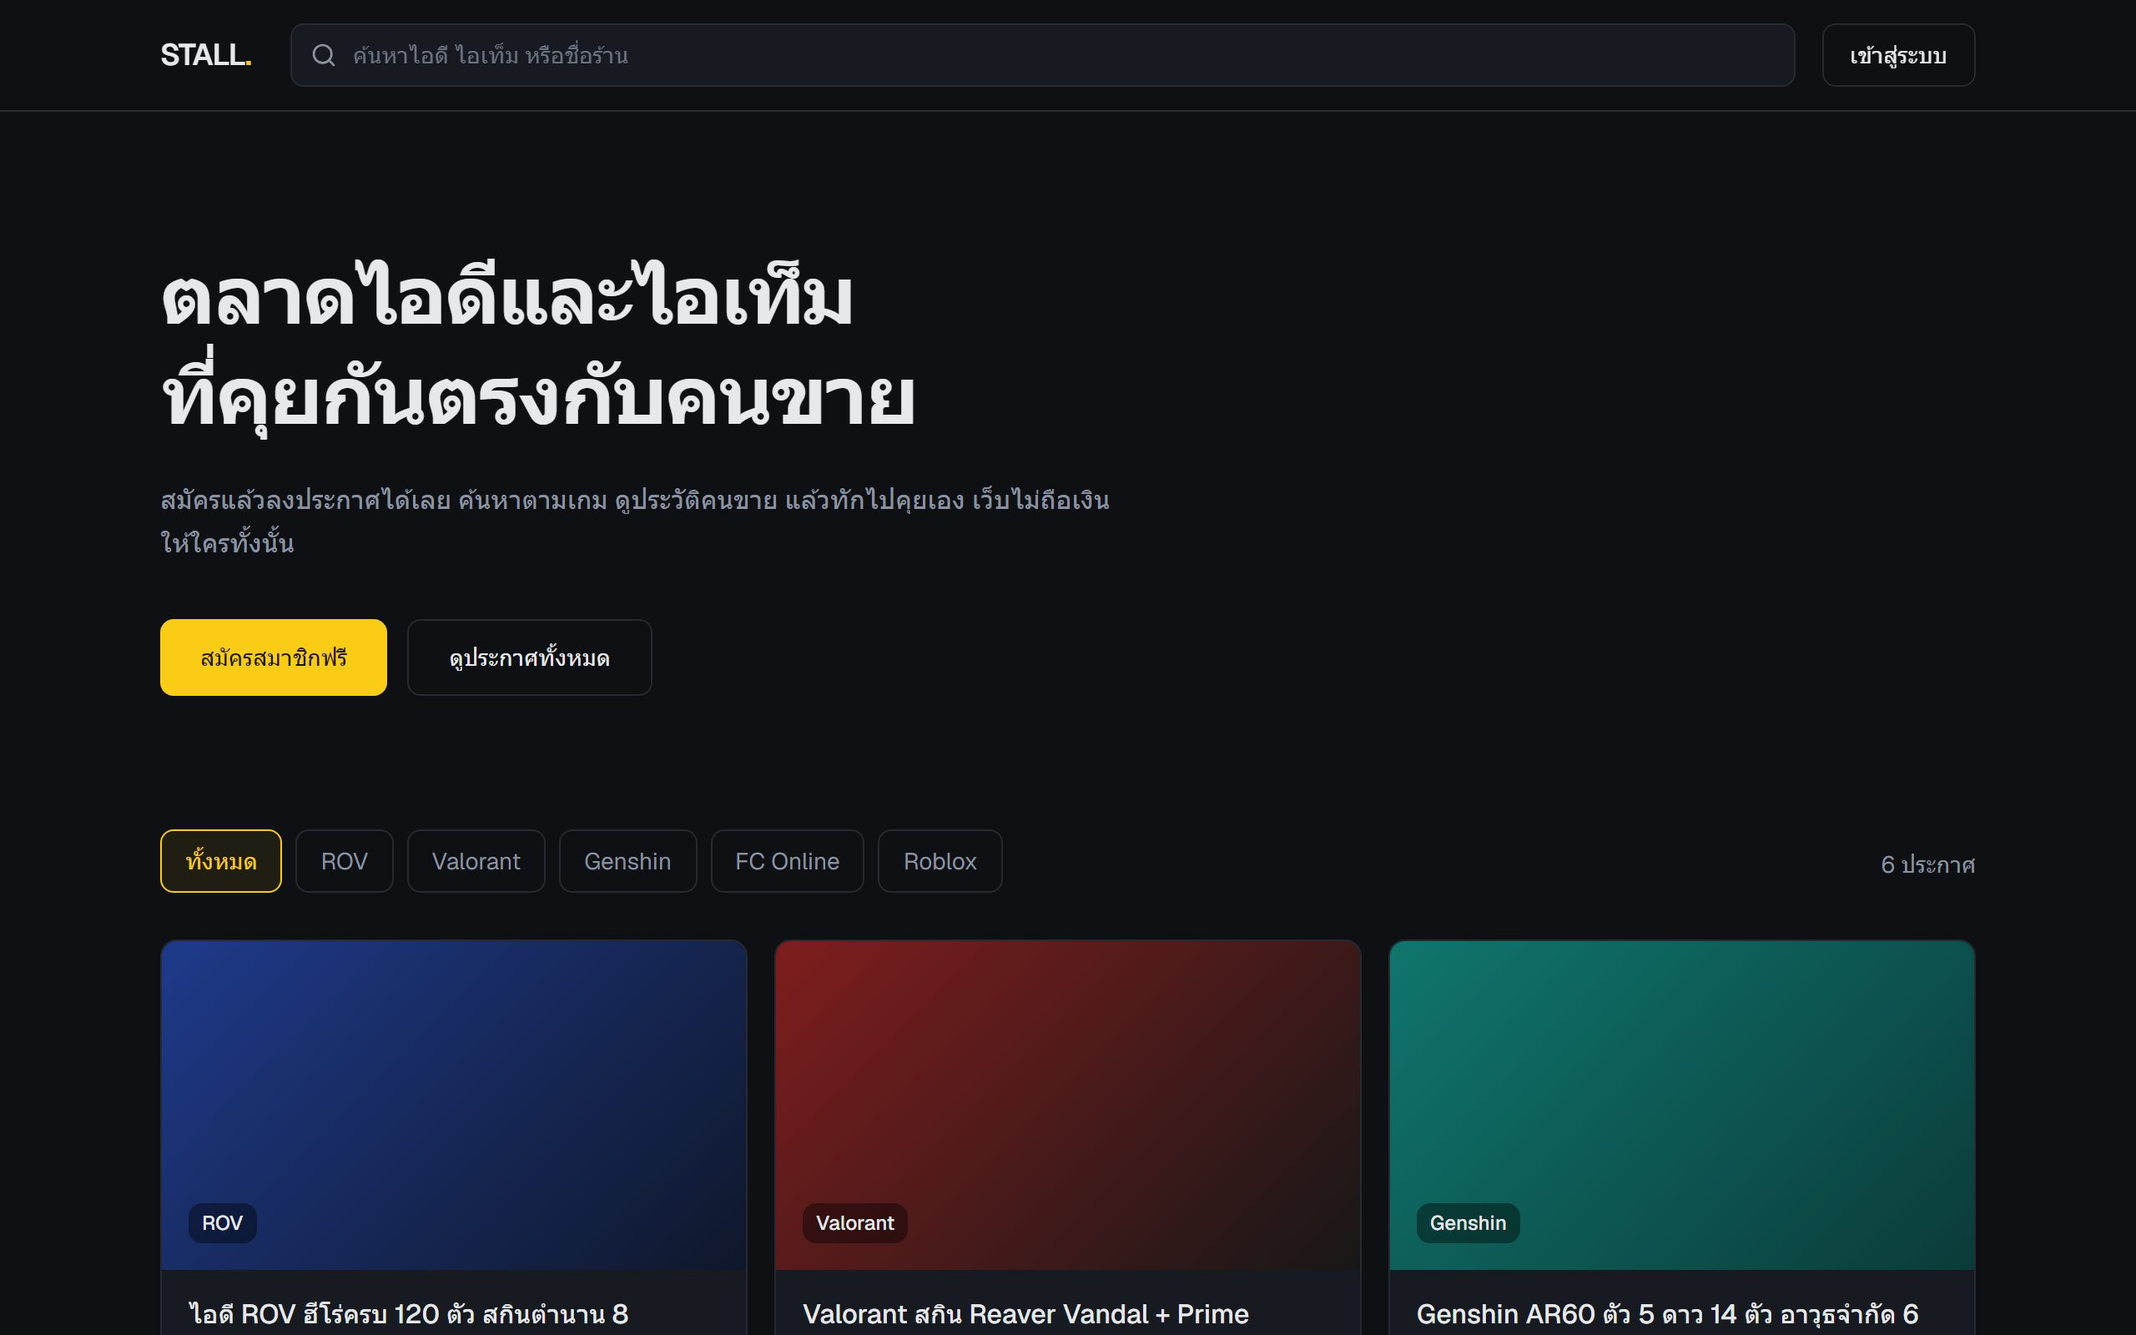
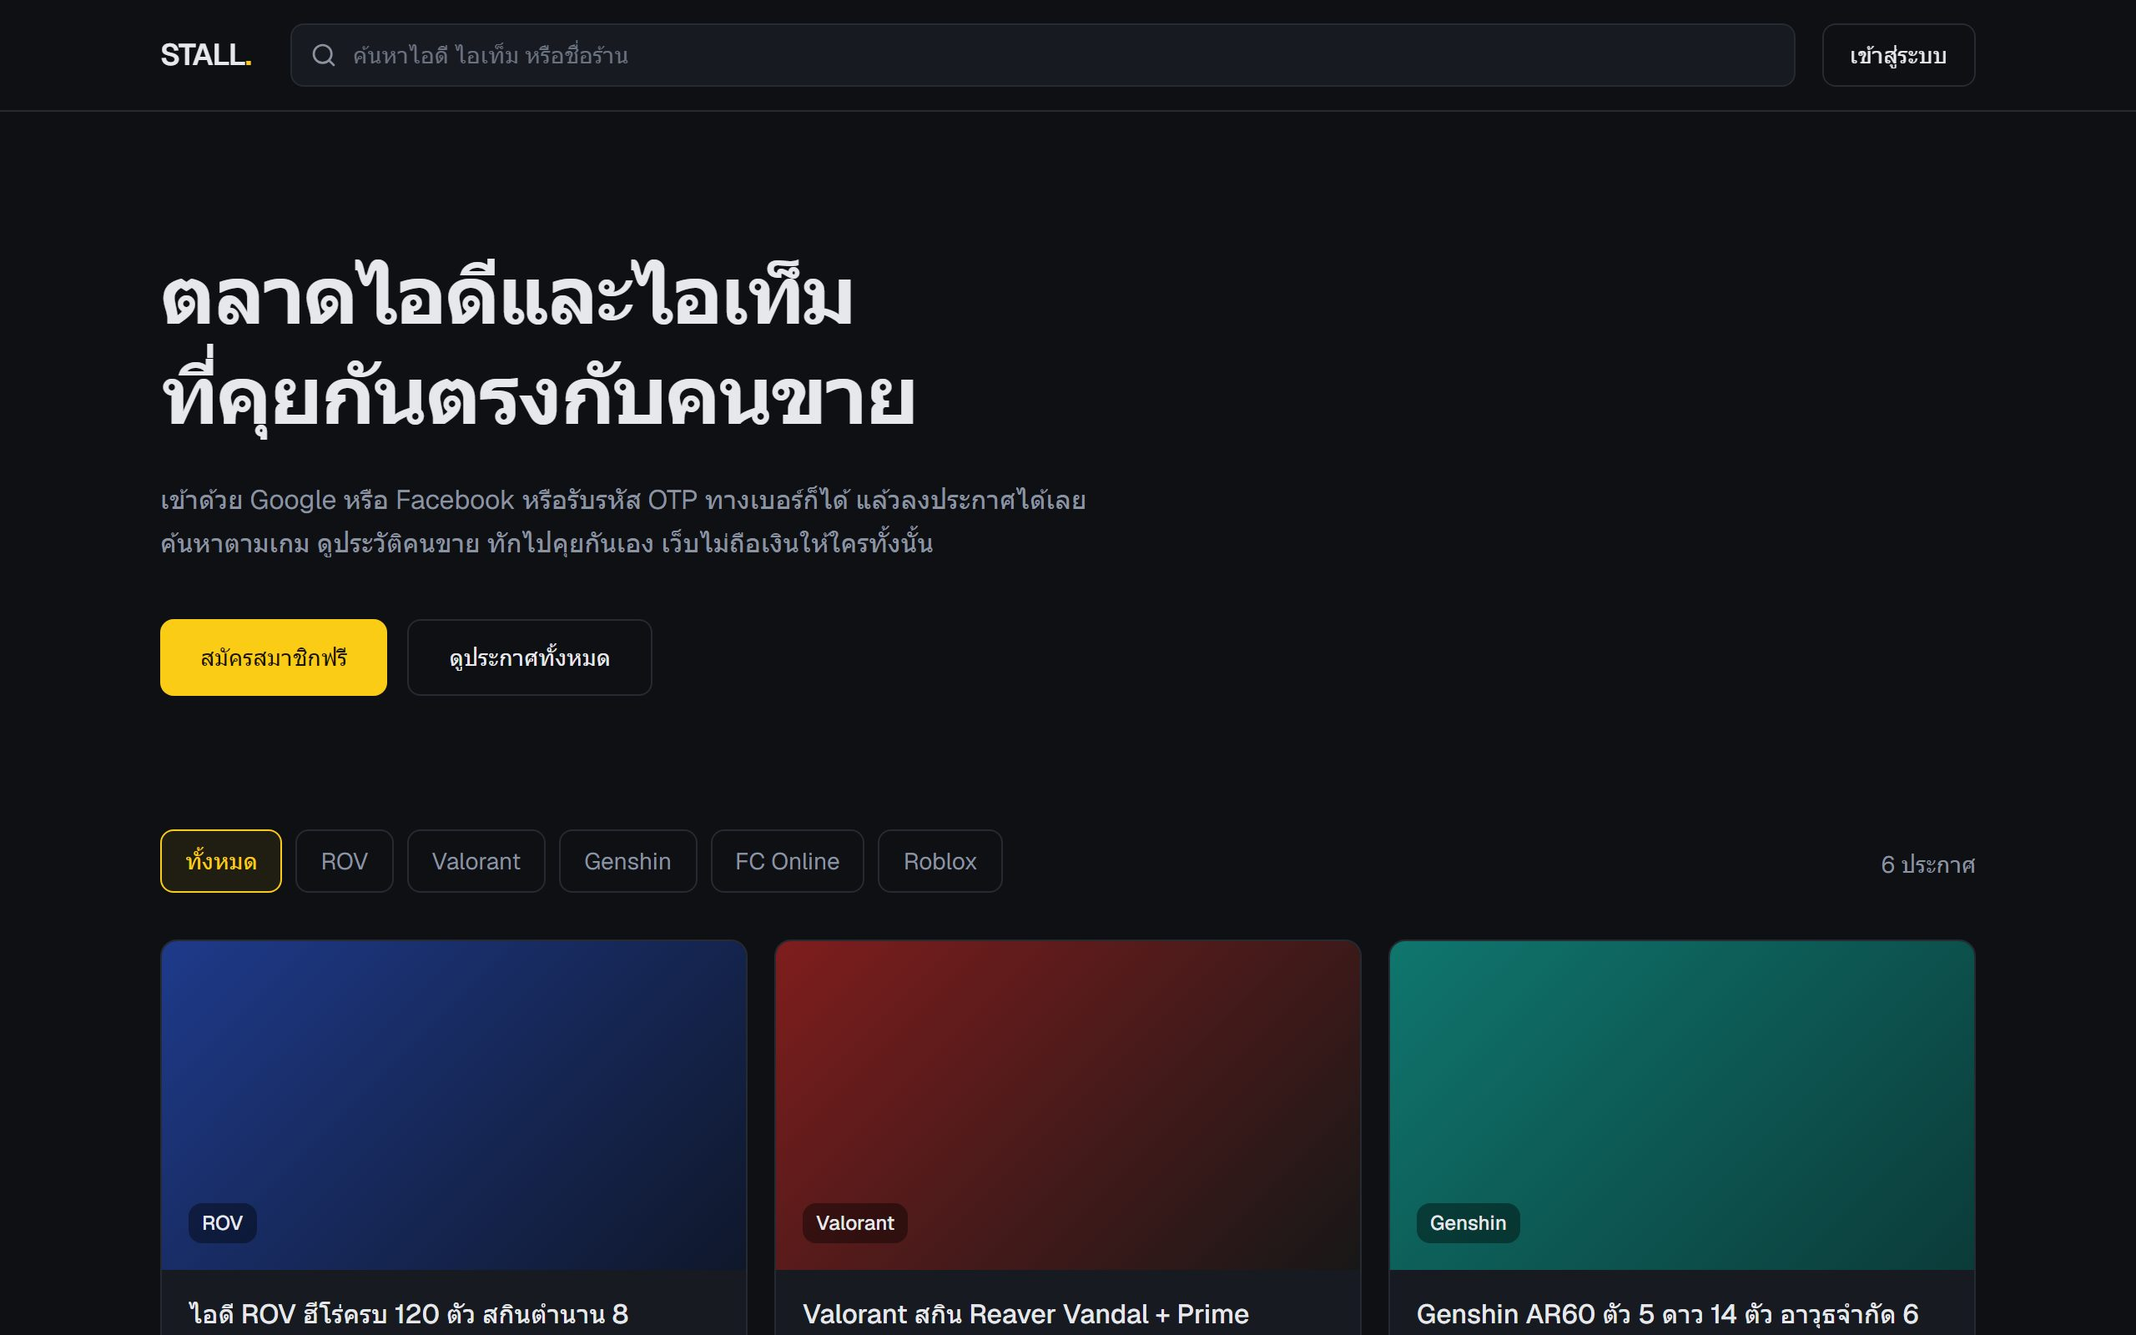
Add social sign in and one time codes to Stall
The dialog was email and password, which is not how anyone signs into a
marketplace any more. It now offers Google and Facebook, or an email address
or Thai mobile number that gets a six digit code: the code row auto-advances,
takes a pasted code in one go, and the resend link counts down before it
unlocks.

Provider marks are set as a letter on a coloured square rather than the
official artwork. This is a design study, and a redrawn brand logo looks worse
than an honest stand-in.

Still no backend and the notice says so louder than before, now that the form
asks for a phone number. Nothing is sent, nothing is stored, and any code is
accepted.

Changed region(s): [[0.0625, 0.3438, 0.5, 0.4375]]

diff --git a/web/src/components/labs/stall-demo.tsx b/web/src/components/labs/stall-demo.tsx
@@ -194,8 +194,9 @@ export function StallDemo() {
             className="mt-5 max-w-xl leading-relaxed"
             style={{ color: MUTED }}
           >
-            สมัครแล้วลงประกาศได้เลย ค้นหาตามเกม ดูประวัติคนขาย
-            แล้วทักไปคุยเอง เว็บไม่ถือเงินให้ใครทั้งนั้น
+            เข้าด้วย Google หรือ Facebook หรือรับรหัส OTP ทางเบอร์ก็ได้
+            แล้วลงประกาศได้เลย ค้นหาตามเกม ดูประวัติคนขาย ทักไปคุยกันเอง
+            เว็บไม่ถือเงินให้ใครทั้งนั้น
           </motion.p>
 
           <motion.div
@@ -341,8 +342,8 @@ export function StallDemo() {
                 อยากได้เว็บแบบนี้เป็นของตัวเอง
               </h2>
               <p className="mt-3 max-w-md leading-relaxed" style={{ color: MUTED }}>
-                สมาชิก ลงประกาศ ค้นหา ระบบหลังบ้านจริง ใช้ได้กับตลาดอะไรก็ได้
-                ไม่ใช่แค่ของในเกม
+                ระบบสมาชิกเข้าได้ทั้ง Google, Facebook, อีเมล และเบอร์แบบรับ OTP
+                ลงประกาศ ค้นหา ฟิลเตอร์ ใช้ได้กับตลาดอะไรก็ได้ ไม่ใช่แค่ของในเกม
               </p>
             </div>
             <div className="flex gap-3">
@@ -384,11 +385,22 @@ export function StallDemo() {
   );
 }
 
+
+const OTP_LENGTH = 6;
+const RESEND_SECONDS = 30;
+
+/** Thai mobile number, in the shape people actually type it. */
+const isPhone = (value: string) => /^0\d{9}$/.test(value.replace(/[\s-]/g, ""));
+const isEmail = (value: string) => /^[^@\s]+@[^@\s.]+\.[^@\s]+$/.test(value);
+
 /**
- * Sign in and register, as a demo. Nothing is sent anywhere and nothing is
- * stored: the form hands a display name back to the page and forgets the rest
- * on unmount. The notice under the button is not decoration - a login box that
- * looks real will otherwise collect a real password from a curious visitor.
+ * Sign in, as a demo: a social provider, or an email or phone number that gets
+ * a one time code. Nothing is sent and nothing is stored. The dialog hands a
+ * display name back to the page and forgets everything else on unmount.
+ *
+ * The notice under the form is not decoration. A login box that looks this real
+ * will otherwise collect a real password, or a real phone number, from someone
+ * who only came to look at the design.
  */
 function AuthDialog({
   onClose,
@@ -397,12 +409,14 @@ function AuthDialog({
   onClose: () => void;
   onSignIn: (name: string) => void;
 }) {
-  const [mode, setMode] = useState<"in" | "up">("in");
-  const [email, setEmail] = useState("");
-  const emailRef = useRef<HTMLInputElement>(null);
+  const [step, setStep] = useState<"method" | "code">("method");
+  const [handle, setHandle] = useState("");
+  const [digits, setDigits] = useState<string[]>(Array(OTP_LENGTH).fill(""));
+  const [secondsLeft, setSecondsLeft] = useState(RESEND_SECONDS);
+
+  const digitRefs = useRef<(HTMLInputElement | null)[]>([]);
 
   useEffect(() => {
-    emailRef.current?.focus();
     const onKey = (event: KeyboardEvent) => {
       if (event.key === "Escape") onClose();
     };
@@ -410,10 +424,60 @@ function AuthDialog({
     return () => window.removeEventListener("keydown", onKey);
   }, [onClose]);
 
-  const submit = (event: React.FormEvent) => {
+  // the resend timer only runs while the code step is on screen
+  useEffect(() => {
+    if (step !== "code") return;
+    const id = window.setInterval(() => {
+      setSecondsLeft((left) => (left > 0 ? left - 1 : 0));
+    }, 1000);
+    return () => window.clearInterval(id);
+  }, [step]);
+
+  const handleIsValid = isPhone(handle) || isEmail(handle);
+  const sentTo = isPhone(handle) ? "เบอร์" : "อีเมล";
+
+  const finish = (name: string) => onSignIn(name);
+
+  const sendCode = (event: React.FormEvent) => {
     event.preventDefault();
-    const handle = email.split("@")[0];
-    onSignIn(handle.length > 1 ? handle : "สมาชิกใหม่");
+    if (!handleIsValid) return;
+    setStep("code");
+    setSecondsLeft(RESEND_SECONDS);
+    window.setTimeout(() => digitRefs.current[0]?.focus(), 60);
+  };
+
+  const finishWithHandle = () =>
+    finish(isPhone(handle) ? handle : handle.split("@")[0]);
+
+  const setDigit = (index: number, value: string) => {
+    const digit = value.replace(/\D/g, "").slice(-1);
+    const next = [...digits];
+    next[index] = digit;
+    setDigits(next);
+
+    if (digit && index < OTP_LENGTH - 1) digitRefs.current[index + 1]?.focus();
+    if (next.every(Boolean)) finishWithHandle();
+  };
+
+  const onDigitKey = (index: number, event: React.KeyboardEvent) => {
+    if (event.key !== "Backspace" || digits[index]) return;
+    digitRefs.current[index - 1]?.focus();
+  };
+
+  // one paste fills the whole row, because that is how the code arrives:
+  // copied straight out of the message
+  const onPaste = (event: React.ClipboardEvent) => {
+    const pasted = event.clipboardData.getData("text").replace(/\D/g, "");
+    if (!pasted) return;
+    event.preventDefault();
+
+    const next = Array.from(
+      { length: OTP_LENGTH },
+      (_, i) => pasted[i] ?? "",
+    );
+    setDigits(next);
+    digitRefs.current[Math.min(pasted.length, OTP_LENGTH - 1)]?.focus();
+    if (next.every(Boolean)) finishWithHandle();
   };
 
   return (
@@ -439,8 +503,11 @@ function AuthDialog({
         style={{ borderColor: LINE, background: PANEL }}
       >
         <div className="flex items-start justify-between gap-4">
-          <h2 id="stall-auth-title" className="text-lg font-semibold tracking-tight">
-            {mode === "in" ? "เข้าสู่ระบบ" : "สมัครสมาชิก"}
+          <h2
+            id="stall-auth-title"
+            className="text-lg font-semibold tracking-tight"
+          >
+            {step === "method" ? "เข้าสู่ระบบหรือสมัคร" : "ใส่รหัสยืนยัน"}
           </h2>
           <button
             onClick={onClose}
@@ -452,80 +519,154 @@ function AuthDialog({
           </button>
         </div>
 
-        <div
-          className="mt-5 grid grid-cols-2 gap-1 rounded-md border p-1"
-          style={{ borderColor: LINE }}
+        {step === "method" ? (
+          <>
+            <div className="mt-5 space-y-2.5">
+              <ProviderButton
+                name="Google"
+                mark="G"
+                markBackground="#ffffff"
+                markColor="#1f1f1f"
+                onClick={() => finish("บัญชี Google")}
+              />
+              <ProviderButton
+                name="Facebook"
+                mark="f"
+                markBackground="#1877f2"
+                markColor="#ffffff"
+                onClick={() => finish("บัญชี Facebook")}
+              />
+            </div>
+
+            <div className="my-5 flex items-center gap-3">
+              <span className="h-px flex-1" style={{ background: LINE }} />
+              <span className="text-xs" style={{ color: FAINT }}>
+                หรือ
+              </span>
+              <span className="h-px flex-1" style={{ background: LINE }} />
+            </div>
+
+            <form onSubmit={sendCode} className="space-y-3">
+              <label className="block">
+                <span className="text-sm" style={{ color: MUTED }}>
+                  อีเมลหรือเบอร์มือถือ
+                </span>
+                <input
+                  autoFocus
+                  value={handle}
+                  onChange={(event) => setHandle(event.target.value)}
+                  autoComplete="off"
+                  placeholder="you@example.com หรือ 0812345678"
+                  aria-describedby="stall-auth-note"
+                  className="mt-1.5 w-full rounded-md border px-3 py-2.5 text-sm outline-none placeholder:text-[#7d8593] focus:border-[#3a424f]"
+                  style={{ borderColor: LINE, background: BG }}
+                />
+              </label>
+
+              <button
+                type="submit"
+                disabled={!handleIsValid}
+                className="w-full rounded-md py-2.5 text-sm font-medium transition-opacity enabled:hover:opacity-90 disabled:opacity-40"
+                style={{ background: ACCENT, color: "#1a1400" }}
+              >
+                ส่งรหัสยืนยัน
+              </button>
+            </form>
+          </>
+        ) : (
+          <div className="mt-5">
+            <p className="text-sm leading-relaxed" style={{ color: MUTED }}>
+              ส่งรหัส {OTP_LENGTH} หลักไปที่{sentTo} {handle} แล้ว
+            </p>
+
+            <div className="mt-4 flex justify-between gap-2">
+              {digits.map((digit, index) => (
+                <input
+                  key={index}
+                  ref={(node) => {
+                    digitRefs.current[index] = node;
+                  }}
+                  value={digit}
+                  onChange={(event) => setDigit(index, event.target.value)}
+                  onKeyDown={(event) => onDigitKey(index, event)}
+                  onPaste={onPaste}
+                  inputMode="numeric"
+                  autoComplete="one-time-code"
+                  maxLength={1}
+                  aria-label={"หลักที่ " + (index + 1)}
+                  className="h-12 w-full rounded-md border text-center text-lg tabular-nums outline-none focus:border-[#3a424f]"
+                  style={{ borderColor: LINE, background: BG }}
+                />
+              ))}
+            </div>
+
+            <div className="mt-4 flex flex-wrap items-center justify-between gap-x-3 gap-y-2 text-sm">
+              <button
+                onClick={() => setStep("method")}
+                className="transition-colors hover:text-white"
+                style={{ color: MUTED }}
+              >
+                แก้ไข{sentTo}
+              </button>
+              <button
+                onClick={() => setSecondsLeft(RESEND_SECONDS)}
+                disabled={secondsLeft > 0}
+                className="transition-colors enabled:hover:opacity-80"
+                style={{ color: secondsLeft > 0 ? FAINT : ACCENT }}
+              >
+                {secondsLeft > 0
+                  ? "ส่งรหัสใหม่ใน " + secondsLeft + " วินาที"
+                  : "ส่งรหัสใหม่"}
+              </button>
+            </div>
+          </div>
+        )}
+
+        <p
+          id="stall-auth-note"
+          className="mt-5 text-xs leading-relaxed"
+          style={{ color: FAINT }}
         >
-          {(["in", "up"] as const).map((value) => (
-            <button
-              key={value}
-              onClick={() => setMode(value)}
-              aria-pressed={mode === value}
-              className="rounded py-2 text-sm font-medium transition-colors"
-              style={{
-                background: mode === value ? ACCENT : "transparent",
-                color: mode === value ? "#1a1400" : MUTED,
-              }}
-            >
-              {value === "in" ? "เข้าสู่ระบบ" : "สมัครใหม่"}
-            </button>
-          ))}
-        </div>
-
-        <form onSubmit={submit} className="mt-5 space-y-3">
-          <label className="block">
-            <span className="text-sm" style={{ color: MUTED }}>
-              อีเมล
-            </span>
-            <input
-              ref={emailRef}
-              type="email"
-              required
-              value={email}
-              onChange={(event) => setEmail(event.target.value)}
-              autoComplete="off"
-              placeholder="you@example.com"
-              className="mt-1.5 w-full rounded-md border px-3 py-2.5 text-sm outline-none placeholder:text-[#7d8593] focus:border-[#3a424f]"
-              style={{ borderColor: LINE, background: BG }}
-            />
-          </label>
-
-          <label className="block">
-            <span className="text-sm" style={{ color: MUTED }}>
-              รหัสผ่าน
-            </span>
-            <input
-              type="password"
-              required
-              minLength={6}
-              autoComplete="off"
-              placeholder="อย่างน้อย 6 ตัวอักษร"
-              className="mt-1.5 w-full rounded-md border px-3 py-2.5 text-sm outline-none placeholder:text-[#7d8593] focus:border-[#3a424f]"
-              style={{ borderColor: LINE, background: BG }}
-            />
-          </label>
-
-          {mode === "up" && (
-            <label className="flex items-start gap-2.5 pt-1 text-sm" style={{ color: MUTED }}>
-              <input type="checkbox" required className="mt-1" />
-              <span>ยอมรับกติกาการซื้อขายและนโยบายข้อมูลส่วนบุคคล</span>
-            </label>
-          )}
-
-          <button
-            type="submit"
-            className="w-full rounded-md py-2.5 text-sm font-medium transition-opacity hover:opacity-90"
-            style={{ background: ACCENT, color: "#1a1400" }}
-          >
-            {mode === "in" ? "เข้าสู่ระบบ" : "สร้างบัญชี"}
-          </button>
-        </form>
-
-        <p className="mt-4 text-xs leading-relaxed" style={{ color: FAINT }}>
-          ตัวอย่างงานออกแบบ ยังไม่มีระบบหลังบ้านจริง ไม่มีการส่งหรือเก็บข้อมูลใดๆ
-          กรุณาอย่ากรอกรหัสผ่านที่คุณใช้จริง
+          ตัวอย่างงานออกแบบ ยังไม่มีระบบหลังบ้านจริง ไม่ส่ง SMS ไม่เก็บข้อมูล
+          และใส่รหัสอะไรก็ผ่าน อย่ากรอกเบอร์หรืออีเมลจริง
         </p>
       </motion.div>
     </motion.div>
+  );
+}
+
+/**
+ * A social sign in button. The provider marks are set as a letter rather than
+ * the official logo artwork: this is a design study, and a badly redrawn brand
+ * mark reads worse than an honest stand-in.
+ */
+function ProviderButton({
+  name,
+  mark,
+  markBackground,
+  markColor,
+  onClick,
+}: {
+  name: string;
+  mark: string;
+  markBackground: string;
+  markColor: string;
+  onClick: () => void;
+}) {
+  return (
+    <button
+      onClick={onClick}
+      className="flex h-11 w-full items-center gap-3 rounded-md border px-3 text-sm font-medium transition-colors hover:border-[#3a424f]"
+      style={{ borderColor: LINE }}
+    >
+      <span
+        aria-hidden
+        className="flex h-6 w-6 shrink-0 items-center justify-center rounded text-sm font-bold"
+        style={{ background: markBackground, color: markColor }}
+      >
+        {mark}
+      </span>
+      ดำเนินการต่อด้วย {name}
+    </button>
   );
 }
